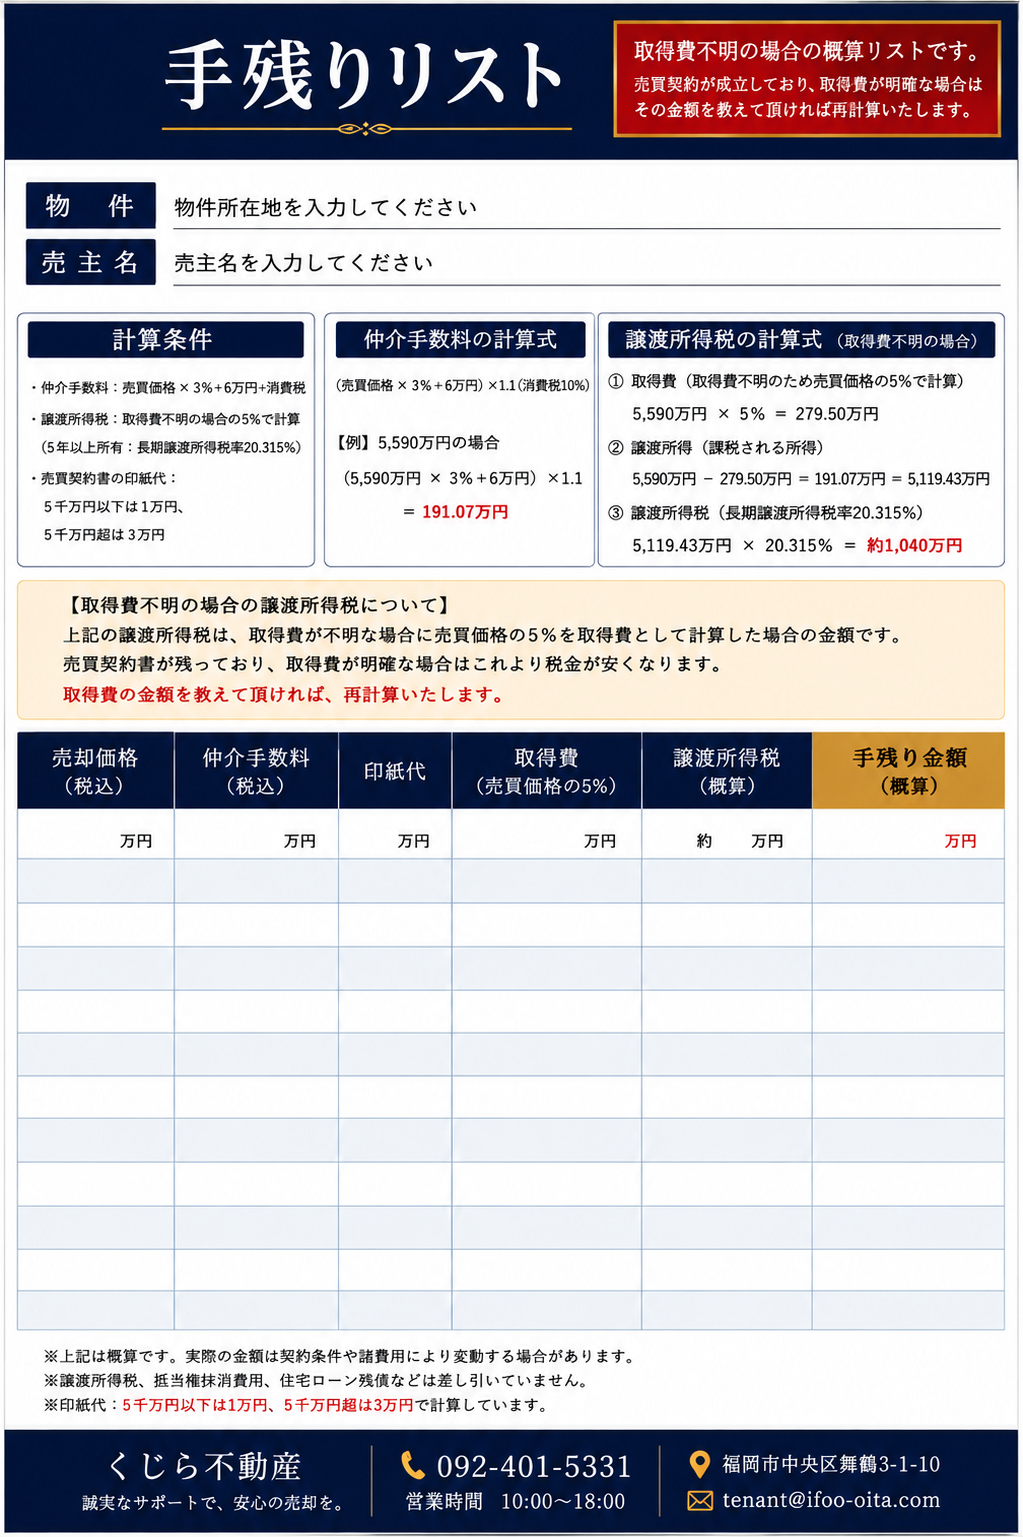
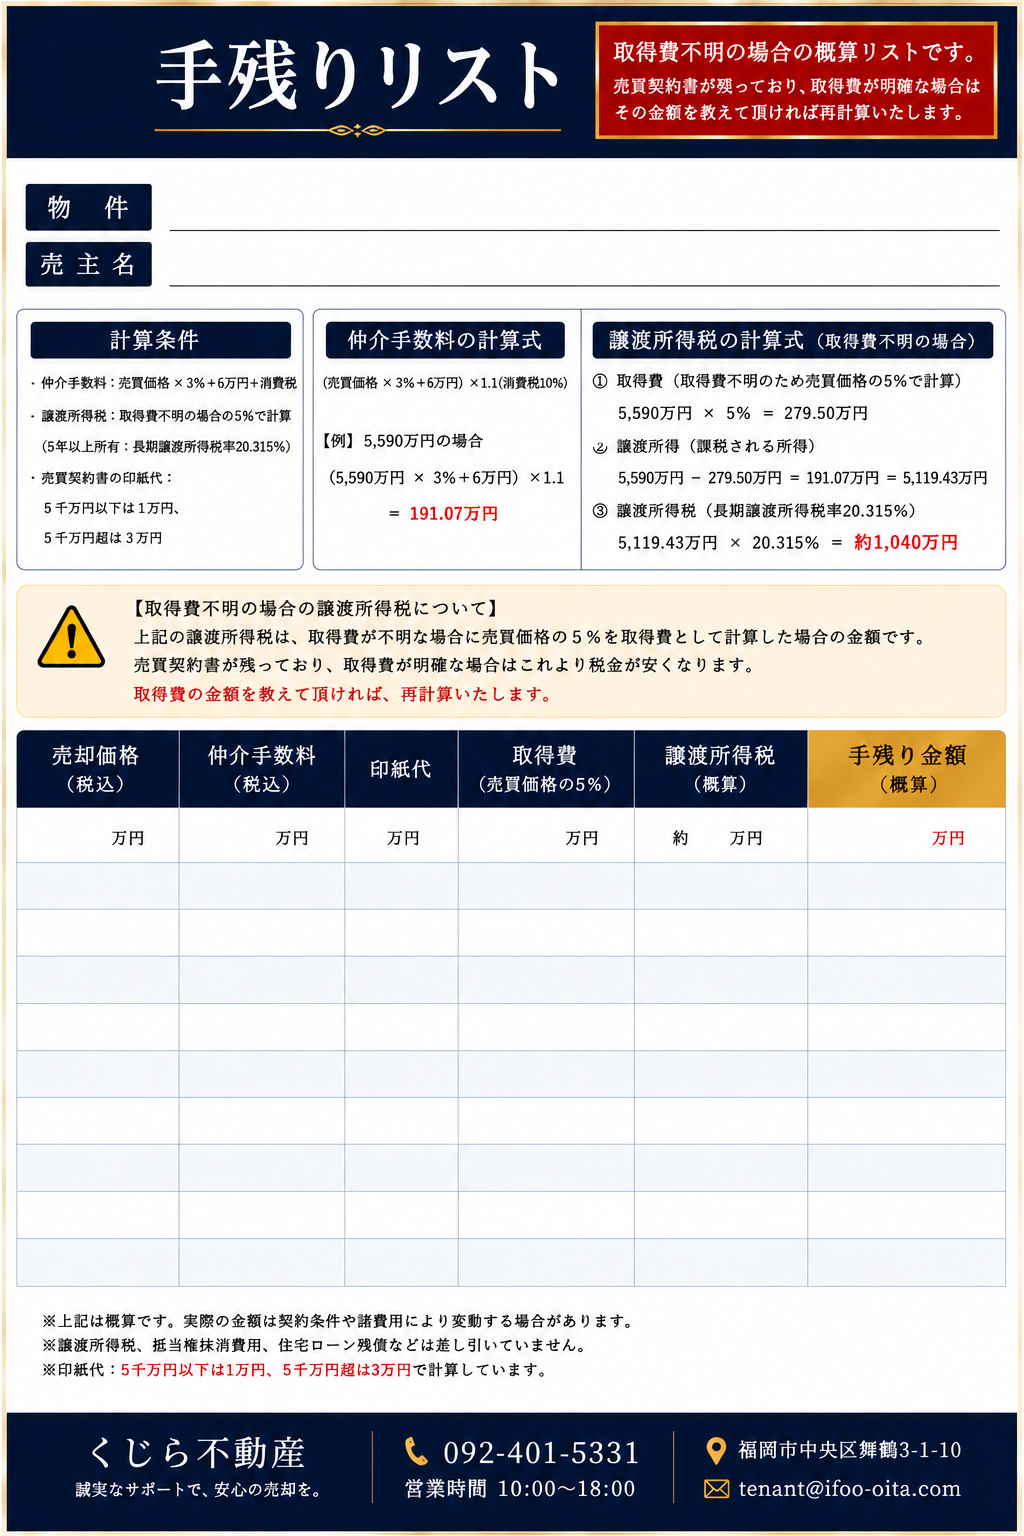
fix: 手残りリスト template2.png強制再デプロイ・キャッシュバスター固定値

diff --git a/frontend/frontend/src/components/NetProceedsListModal.tsx b/frontend/frontend/src/components/NetProceedsListModal.tsx
@@ -505,7 +505,7 @@ function buildNetProceedsHtml(p: BuildHtmlParams): string {
 </style>
 </head><body>
 <div class="a4">
-  <img class="bg" src="/sale-schedule/illustrations/template2.png?v=${Date.now()}" alt="" />
+  <img class="bg" src="/sale-schedule/illustrations/template2.png?v=20260807b" alt="" />
   <div class="layer">
     ${debug ? buildNpDebugGrid() : ''}
 
